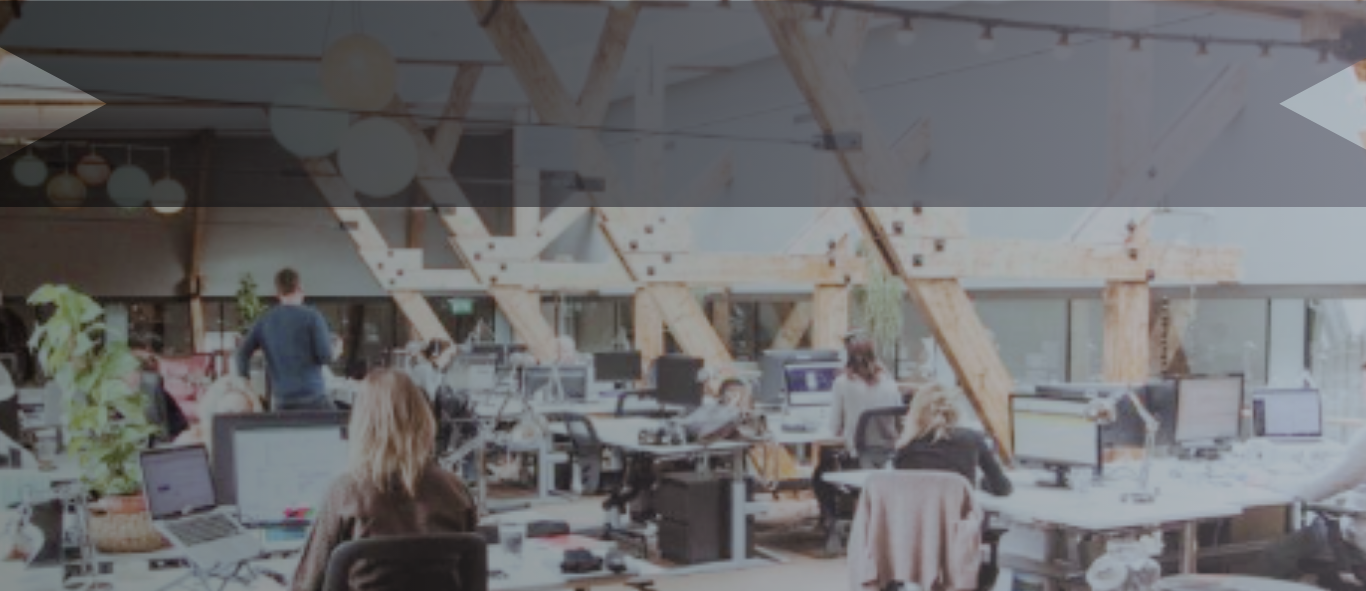
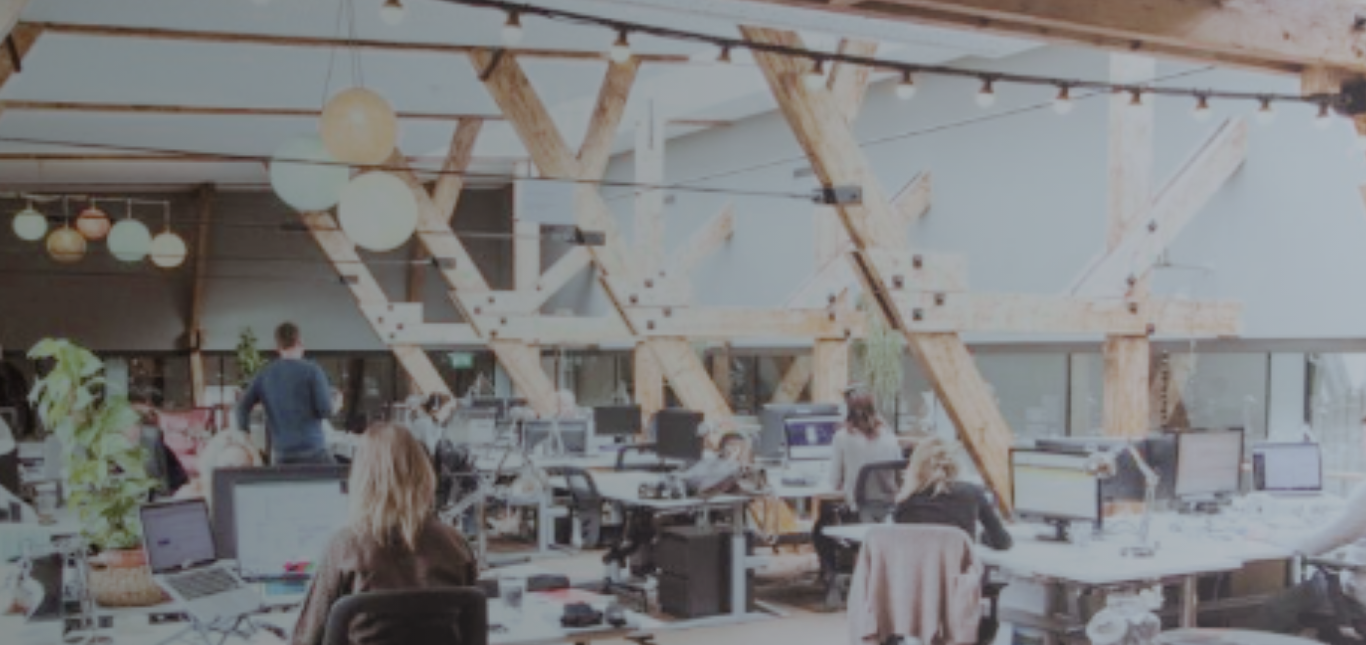
Added: -About Us Responsiveness

diff --git a/style.css b/style.css
@@ -554,12 +554,15 @@ header {
     flex-direction: column;
     align-items: center;
     justify-content: center;
+
+    background-image: url('assets/image/pagina6/banner.png');
+    background-position: center;
+    background-size: 100% 100%;
 }
 
 .aboutUsTekst{
     width: 85%;
     text-align: center;
-    
     font-size: 1.2rem;
 }
 
@@ -780,6 +783,17 @@ header {
         right: -7%;
         bottom: -13%; 
     }
+
+    /* AboutUs*/
+    .aboutUsHeading h2{
+        font-size: 2.5rem;
+        color: blue;
+    }
+    
+    .aboutUsTekst{
+        width: 85%;
+        font-size: 1rem;
+    }
 }
 
 @media(max-width: 768px) {
@@ -814,13 +828,21 @@ header {
     }
 
     /* Our Services */
+    .serviceHeading h2{
+        font-size: 2.5rem;
+        font-weight: bold;
+    }
+
+    .serviceHeading h3{
+        font-size: 1.5rem;
+    }
+
     .serviceHero{
         text-align: center;
     }
 
     /* Testimonial */
     .testimonialsHeading h2 {
-        font-size: 2.5rem;
         color: green;
     }
 
@@ -855,6 +877,15 @@ header {
         right: -5%;
         bottom: -5%; 
     }
+
+    /* AboutUs */
+    .aboutUsHeading h2{
+        color: green;
+    }
+    
+    .aboutUsTekst{
+        font-size: 1rem;
+    }
 }
 
 @media(max-width: 480px) {
@@ -868,9 +899,15 @@ header {
         height: 18vh;
     }
 
+    /* Our Services */
+    .serviceHeading h2{
+        font-size: 2rem;
+        color: red;
+    }
+
     /* Testimonial */
     .testimonialsHeading h2 {
-        font-size: 2.5rem;
+        font-size: 2rem;
         color: red;
     }
 
@@ -904,6 +941,15 @@ header {
 
         right: -10%;
         bottom: 5%; 
+    }
+
+    /* AboutUs */
+    .aboutUsHeading h2{
+        color: red;
+    }
+    
+    .aboutUsTekst{
+        font-size: 0.8rem;
     }
 }
 
